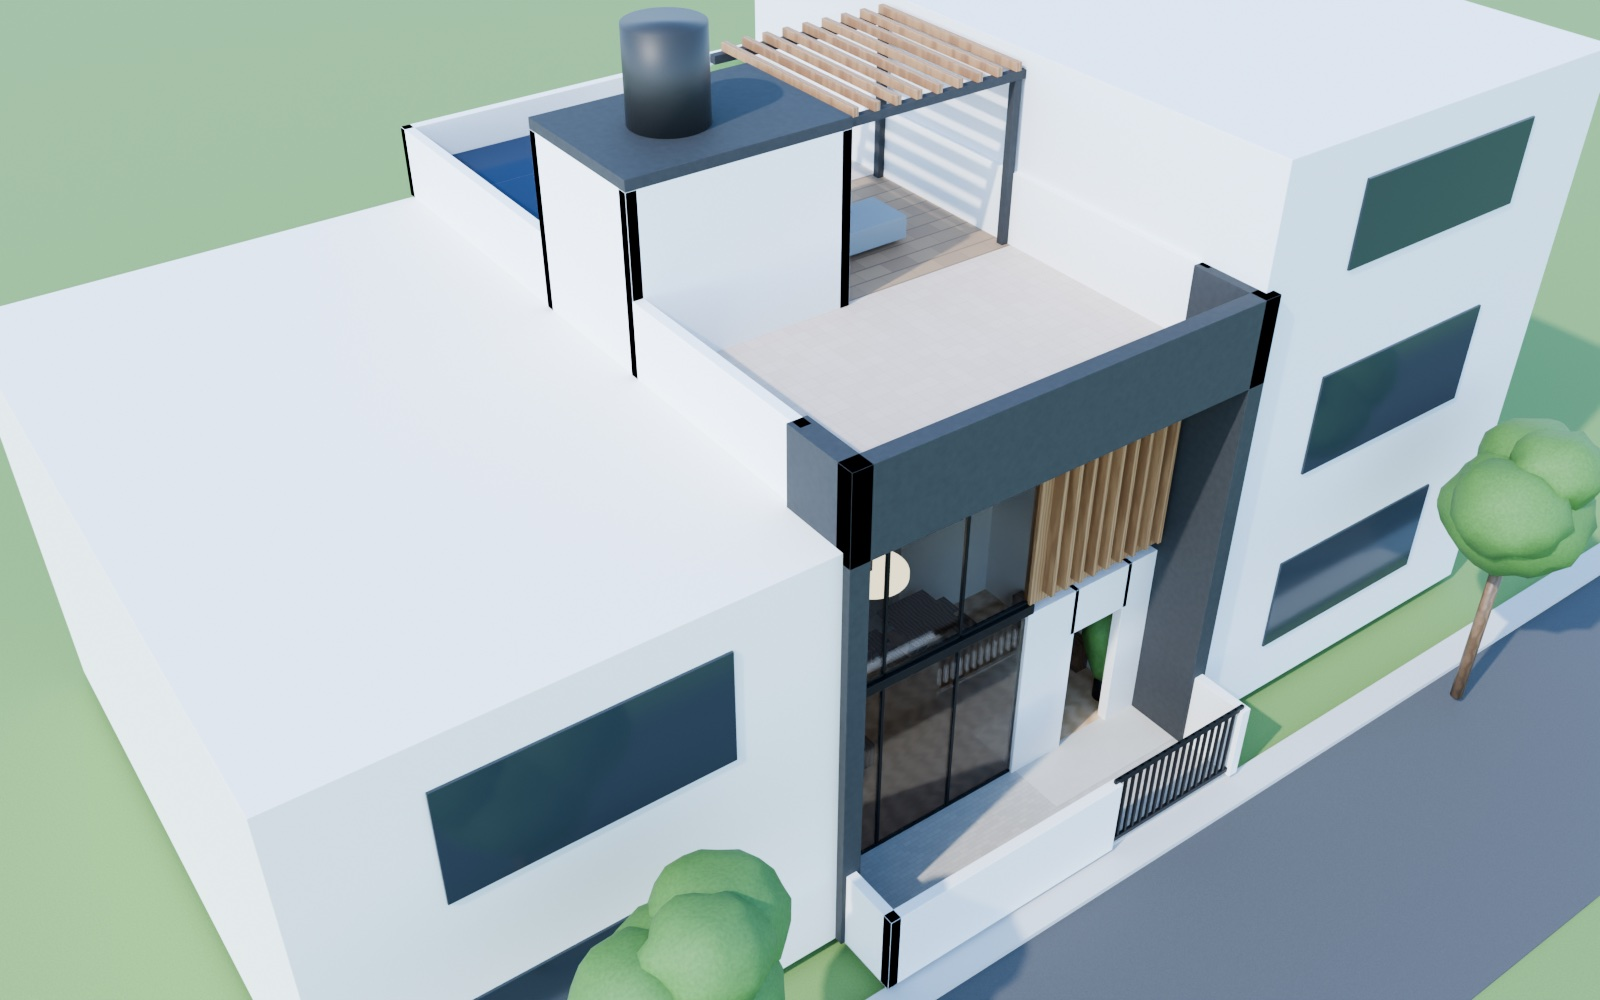
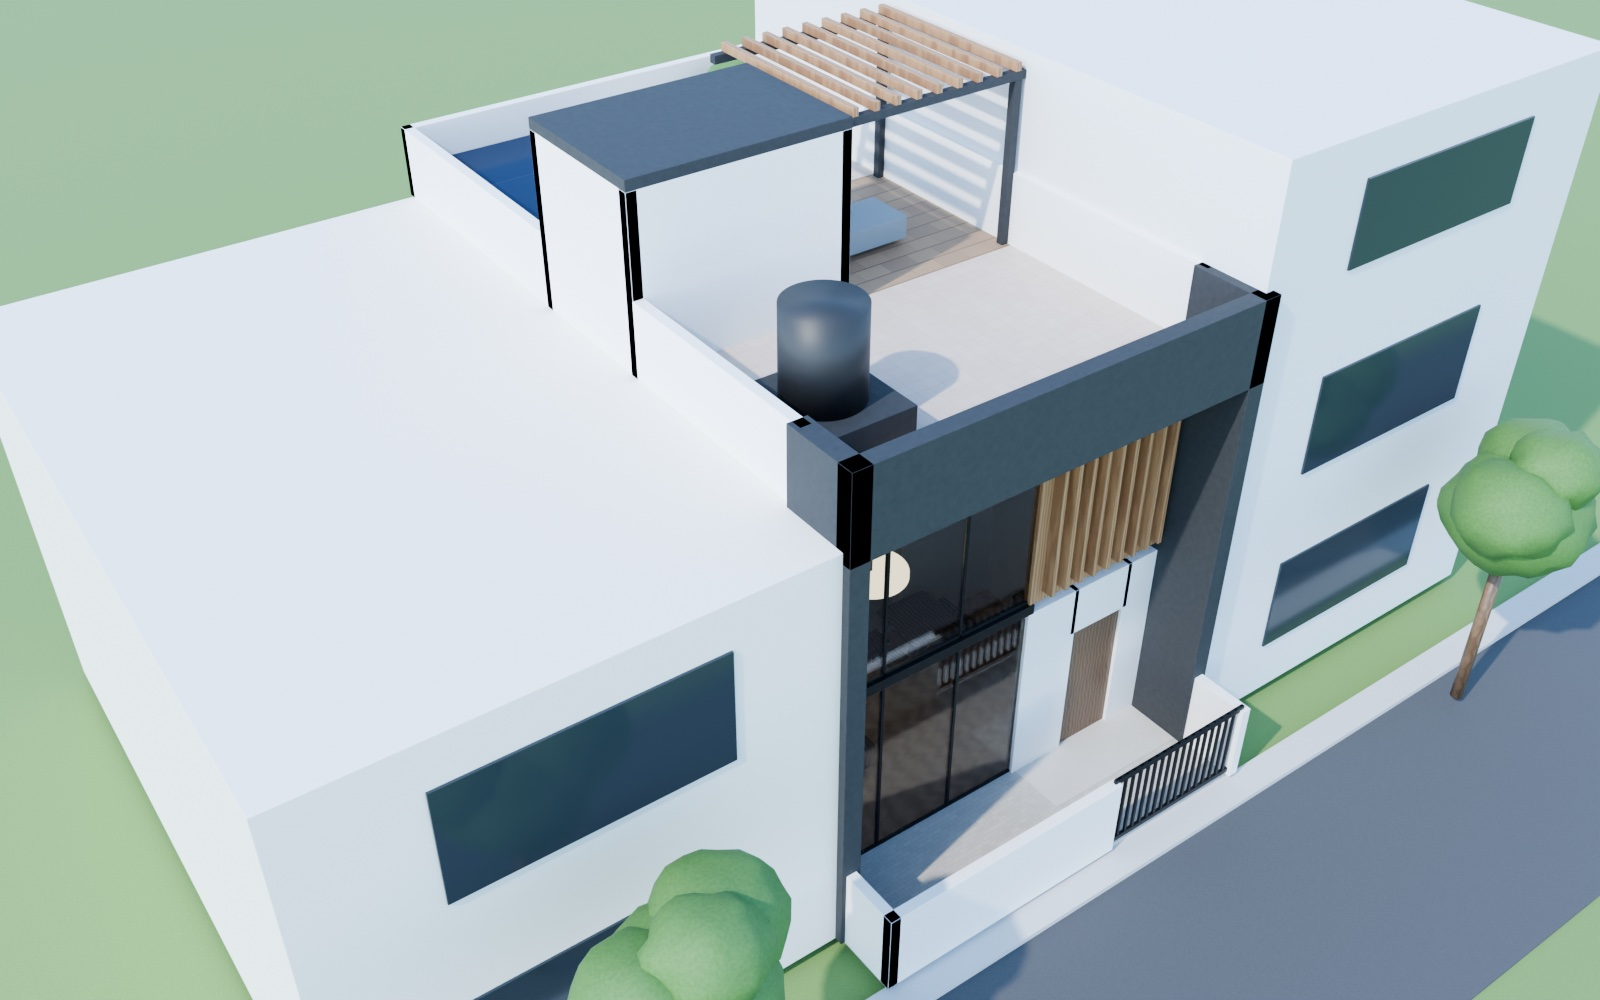
Apply easy vastu fixes: east-facing hob, bed heads east, SW water tank, NE sump / NW septic
Updates the 3D model, Blender scene, aerial render and plan sheet,
and rewrites the vastu checklist (7 of 11 met, 4 partial).

diff --git a/index.html b/index.html
@@ -135,9 +135,9 @@ const LEVELS = [
       { n: 'Passage', r: [10,17,4,10], f: 'tile', note: 'Links living, stair, kitchen, wash and Bedroom 1.' },
       { n: 'Wash', r: [14,17,6,4], f: 'tile', note: 'Wash basin counter and store niche.' },
       { n: 'Bath 1', r: [14,21,6,6], f: 'bath', note: 'Attached to Bedroom 1. No outside wall, so it needs an exhaust ducted to the rear.' },
-      { n: 'Kitchen', r: [0,24,10,14], f: 'tile', note: 'North-west kitchen. L-counter under the north window, back door to the utility strip.' },
-      { n: 'Bedroom 1', r: [10,27,10,11], f: 'wood2', note: 'Ground-floor bedroom with attached Bath 1. Good for parents or guests.' },
-      { n: 'Rear setback', r: [0,38,20,2], f: 'paving', note: '2′ utility strip for drain pipes and a back door.' }
+      { n: 'Kitchen', r: [0,24,10,14], f: 'tile', note: 'North-west kitchen. The hob is on the east counter so you cook facing east. Sink under the north window, tall storage on the west wall, back door to the utility strip.' },
+      { n: 'Bedroom 1', r: [10,27,10,11], f: 'wood2', note: 'Ground-floor bedroom with attached Bath 1. The bed head is to the east, as vastu advises. Good for parents or guests.' },
+      { n: 'Rear setback', r: [0,38,20,2], f: 'paving', note: '2′ utility strip with the back door. Septic tank chamber in the north-west, underground water sump in the north-east.' }
     ],
     encl: [[0,6,20,11],[0,17,10,7],[10,17,4,10],[14,17,6,4],[14,21,6,6],[0,24,10,14],[10,27,10,11]],
     open: [[10,17,14,17],[10,17,10,20.5],[14,17,14,21],[10,24,10,27]],
@@ -153,7 +153,7 @@ const LEVELS = [
       { n: 'Stair', r: [0,17,10,7], f: 'stone', noTile: true, note: 'Stair continues up to the terrace stair room.' },
       { n: 'Passage', r: [10,21,4,6], f: 'tile', note: 'Links the gallery, Bedroom 2, Bath 2 and the study.' },
       { n: 'Bath 2', r: [14,21,6,6], f: 'bath', note: 'Attached to Bedroom 2. Sits directly above Bath 1, so the plumbing runs straight down.' },
-      { n: 'Bedroom 2', r: [10,27,10,11], f: 'wood2', note: 'Upstairs bedroom above Bedroom 1, with attached Bath 2 and a wide north window.' },
+      { n: 'Bedroom 2', r: [10,27,10,11], f: 'wood2', note: 'Upstairs bedroom above Bedroom 1, with attached Bath 2 and a wide north window. Bed head to the east.' },
       { n: 'Study / flex', r: [0,24,10,14], f: 'wood', note: '10′ × 14′ room over the kitchen with a north window. Can become a third bedroom later.' }
     ],
     encl: [[0,17,10,7],[10,21,4,6],[14,21,6,6],[0,24,10,14],[10,27,10,11]],
@@ -168,8 +168,8 @@ const LEVELS = [
   },
   { name: 'Terrace', wallH: 8,
     rooms: [
-      { n: 'Roof terrace', r: [0,3,20,14], f: 'terrace', note: 'Terrace on the roof of the double-height living room, framed by the front concrete frame.' },
-      { n: 'Stair room', r: [0,17,10,7], f: 'stone', noTile: true, note: 'Stair headroom. The overhead water tank sits on its roof, in the south-west half.' },
+      { n: 'Roof terrace', r: [0,3,20,14], f: 'terrace', note: 'Terrace on the roof of the double-height living room. The overhead water tank sits on a plinth in the south-west corner.' },
+      { n: 'Stair room', r: [0,17,10,7], f: 'stone', noTile: true, note: 'Stair headroom with a door to the pergola deck.' },
       { n: 'Pergola deck', r: [10,17,10,10], f: 'deck', note: 'Shaded sit-out under a slatted pergola, next to the stair-room door.' },
       { n: 'Solar roof', r: [0,24,10,14], f: 'terrace', note: 'Roof of the study. Room for about 3 kW of solar panels, tilted 13° to the south.' },
       { n: 'Rear terrace', r: [10,27,10,11], f: 'terrace', note: 'Roof of Bedroom 2. Space for drying and a terrace garden.' }
@@ -379,11 +379,12 @@ F(0, 5.9, 9.4, 6.1, 9.6, 12, 19.5, M.frame);
 // tall indoor plant by the glass
 F(0, 10.4, 6.6, 11.4, 7.6, 0, 1.4, M.frame); F(0, 10.1, 6.3, 11.7, 7.9, 1.4, 5.5, M.green);
 // kitchen
-F(0, 0.25, 27, 2.25, 37.75, 0, 3, M.white); F(0, 2.25, 35.75, 9.75, 37.75, 0, 3, M.white);
+F(0, 0.25, 27, 2.25, 37.75, 0, 7, M.white); F(0, 2.25, 35.75, 7.75, 37.75, 0, 3, M.white);
+F(0, 7.75, 28, 9.75, 37.75, 0, 3, M.white); F(0, 8.1, 30.5, 9.4, 33.5, 3, 3.08, M.black); // hob on the east counter: cook faces east
 F(0, 0.3, 24.3, 2.6, 26.6, 0, 6, M.metal);
 // bedroom 1 + bath 1 + wash
-F(0, 13, 31, 18, 37.5, 0, 1.8, M.white); F(0, 13, 37.4, 18, 37.75, 0, 3.6, M.woodDark);
-F(0, 10.3, 29, 12.3, 35.5, 0, 7, M.wood);
+F(0, 13.25, 31, 19.75, 36, 0, 1.8, M.white); F(0, 19.4, 31, 19.75, 36, 0, 3.6, M.woodDark); // head to the east
+F(0, 17.7, 27.25, 19.75, 29.25, 0, 7, M.wood);
 F(0, 18.5, 24.5, 19.75, 26.2, 0, 1.4, M.white);
 F(0, 18.2, 17.3, 19.75, 20.5, 0, 2.8, M.white);
 // first: gallery lounge + pooja unit
@@ -391,8 +392,8 @@ F(1, 17.5, 14, 19.75, 19, 0, 1.5, M.fabric); F(1, 19.1, 14, 19.75, 19, 1.5, 2.9,
 F(1, 13.5, 15, 15.8, 17.8, 0, 1.3, M.wood);
 F(1, 19.2, 19.4, 19.75, 20.9, 0, 4, M.woodDark);
 // bedroom 2 + bath 2
-F(1, 13, 31, 18, 37.5, 0, 1.8, M.white); F(1, 13, 37.4, 18, 37.75, 0, 3.6, M.clad);
-F(1, 10.3, 29, 12.3, 35.5, 0, 7, M.wood);
+F(1, 13.25, 31, 19.75, 36, 0, 1.8, M.white); F(1, 19.4, 31, 19.75, 36, 0, 3.6, M.clad); // head to the east
+F(1, 17.7, 27.25, 19.75, 29.25, 0, 7, M.wood);
 F(1, 18.5, 24.5, 19.75, 26.2, 0, 1.4, M.white);
 // study
 F(1, 0.3, 30, 2.5, 35, 0, 2.5, M.wood); F(1, 6, 34, 9.7, 37.7, 0, 1.5, M.fabric); F(1, 0.25, 24.5, 1.1, 29, 0, 7, M.woodDark);
@@ -421,8 +422,11 @@ for (const cy of [27.5, 31.8, 36.1]) {
 }
 {
   const tank = new THREE.Mesh(new THREE.CylinderGeometry(1.7, 1.7, 4, 28), M.tank);
-  tank.position.copy(V(4, 20.5, 2 * FLOOR + 8.5 + 2)); tank.castShadow = true;
+  tank.position.copy(V(3.5, 9.5, 2 * FLOOR + 1.5 + 2)); tank.castShadow = true;   // south-west corner of the roof
   levelObjs[2].group.add(tank);
+  box(1, 7, 6, 12, 2 * FLOOR, 2 * FLOOR + 1.5, M.frame, levelObjs[2].group);
+  box(0.6, 38.3, 4, 39.7, 0, 0.06, M.frame, levelObjs[0].group);    // septic chamber cover, north-west
+  box(16, 38.3, 19.4, 39.7, 0, 0.06, M.frame, levelObjs[0].group);  // sump cover, north-east
 }
 
 // ---------- site ----------

diff --git a/plans.html b/plans.html
@@ -94,7 +94,7 @@ ul.check .mid{color:var(--warn);font-weight:700}
   <figure><figcaption><strong>First floor</strong><small>460 sq ft enclosed</small></figcaption><svg id="p-first"></svg>
     <p>A gallery looks down into the living room over a glass rail. Bedroom 2 and Bath 2 sit directly above Bedroom 1 and Bath 1.</p></figure>
   <figure><figcaption><strong>Terrace</strong><small>70 sq ft stair room</small></figcaption><svg id="p-terrace"></svg>
-    <p>Flat roof with a front concrete frame, a pergola deck, solar panels on the study roof, and the water tank on the stair room.</p></figure>
+    <p>Flat roof with a front concrete frame, a pergola deck, solar panels on the study roof, and the water tank in the south-west corner.</p></figure>
 </div>
 <div class="legend">
   <span><i style="background:var(--room)"></i>Enclosed room</span>
@@ -111,14 +111,19 @@ ul.check .mid{color:var(--warn);font-weight:700}
   </section>
   <section>
     <h2>Vastu check for a south-facing plot</h2>
+    <p style="margin:-4px 0 12px;color:var(--muted);font-size:14px">7 of 11 rules met, 4 partly. The only one fully missed is the south-west master bedroom, which is the trade-off for the double-height living room.</p>
     <ul class="check">
       <li><span class="ok">✓</span><span><b>Main door</b> on the south wall, east of centre (pada 3–4). The south-west half is avoided.</span></li>
-      <li><span class="ok">✓</span><span><b>Kitchen</b> in the north-west. Cook facing east along the east counter.</span></li>
+      <li><span class="ok">✓</span><span><b>Kitchen</b> in the north-west, with the hob on the east counter so you cook facing east.</span></li>
       <li><span class="ok">✓</span><span><b>Staircase</b> on the west side. It climbs clockwise: west, turn north, then east.</span></li>
-      <li><span class="ok">✓</span><span><b>Water tank</b> over the stair room, in the heavier south-west half.</span></li>
-      <li><span class="ok">✓</span><span><b>Brahmasthan</b> (centre) stays open, with the passage and the double-height space.</span></li>
-      <li><span class="mid">~</span><span><b>Both bedrooms</b> are in the north-east, stacked. The double-height living takes the south-west, where vastu would put the master bedroom. This is the trade-off for the tall living room. Keep beds with the head to the south.</span></li>
-      <li><span class="mid">~</span><span><b>Pooja</b> is a wall unit on the gallery's east wall rather than a separate room.</span></li>
+      <li><span class="ok">✓</span><span><b>Overhead water tank</b> on a plinth in the south-west corner of the roof.</span></li>
+      <li><span class="ok">✓</span><span><b>Underground sump</b> in the north-east corner. <b>Septic tank</b> in the north-west.</span></li>
+      <li><span class="ok">✓</span><span><b>Beds</b> in both bedrooms placed with the head to the east.</span></li>
+      <li><span class="ok">✓</span><span><b>Brahmasthan</b> (centre) left open, with the passage and the double-height space.</span></li>
+      <li><span class="mid">~</span><span><b>Both bedrooms</b> are in the north-east, stacked. The double-height living room takes the south-west, where vastu would put the master bedroom. This is the trade-off for the tall living room.</span></li>
+      <li><span class="mid">~</span><span><b>Baths</b> are east-centre, stacked. It's acceptable, but not the west or north-west that vastu prefers.</span></li>
+      <li><span class="mid">~</span><span><b>Pooja</b> is a wall unit on the gallery's east wall, not a room in the north-east.</span></li>
+      <li><span class="mid">~</span><span><b>South glass wall.</b> Vastu prefers fewer openings on the south. The concrete frame and wood fins reduce the heat.</span></li>
     </ul>
   </section>
 </div>
@@ -161,7 +166,7 @@ const PLANS = {
       {w:"h",x:15,y:27,len:2.5,al:1,in:-1},
       {w:"h",x:1,y:38,len:2.5,al:1,in:-1}
     ],
-    extra: [{t:"MAIN DOOR",x:16.25,y:4.5}]
+    extra: [{t:"MAIN DOOR",x:16.25,y:4.5},{t:"HOB · FACE EAST",x:5,y:29.5},{t:"BED HEAD → EAST",x:15,y:30.2},{t:"SEPTIC (NW)",x:3,y:38.6},{t:"SUMP (NE)",x:17,y:38.6}]
   },
   first: {
     stairLabel: "UP",
@@ -184,7 +189,7 @@ const PLANS = {
       {w:"h",x:15,y:27,len:2.5,al:1,in:-1},
       {w:"v",x:10,y:24.3,len:2.5,al:1,in:-1}
     ],
-    extra: [{t:"GLASS RAIL",x:15,y:13.6},{t:"WOOD-CLAD PANEL",x:16,y:6.8}]
+    extra: [{t:"GLASS RAIL",x:15,y:13.6},{t:"WOOD-CLAD PANEL",x:16,y:6.8},{t:"BED HEAD → EAST",x:15,y:30.2}]
   },
   terrace: {
     stairLabel: "",
@@ -198,7 +203,7 @@ const PLANS = {
     ],
     openings: [], windows: [],
     doors: [{w:"v",x:10,y:20.7,len:3,al:1,in:1}],
-    extra: [{t:"WATER TANK ABOVE",x:5,y:25.2},{t:"CONCRETE FRAME",x:10,y:3.6}]
+    extra: [{t:"WATER TANK (SW)",x:4,y:7.2},{t:"CONCRETE FRAME",x:10,y:3.6}]
   }
 };
 

diff --git a/blender/render_house.py b/blender/render_house.py
@@ -445,18 +445,20 @@ F(0, 5.95, 9.45, 6.05, 9.55, 12.2, 19.5, 'black', 'pendant rod')
 cylinder(1.6, 0.25, P(6, 9.5, 12.1), M['lamp'], 48, 'pendant')
 cylinder(0.5, 1.4, P(18.9, 7.1, 0.7), M['black'], 24, 'planter')
 blob(1.3, P(18.9, 7.1, 3.6), M['leaf'], 1.7, 'plant')
-F(0, 0.25, 27, 2.25, 37.75, 0, 3, 'white', 'counter'); F(0, 2.25, 35.75, 9.75, 37.75, 0, 3, 'white', 'counter')
-F(0, 0.25, 27, 2.25, 37.75, 3, 3.1, 'stone', 'counter top'); F(0, 2.25, 35.75, 9.75, 37.75, 3, 3.1, 'stone', 'counter top')
+F(0, 0.25, 27, 2.25, 37.75, 0, 7, 'white', 'tall storage'); F(0, 2.25, 35.75, 7.75, 37.75, 0, 3, 'white', 'counter')
+F(0, 2.25, 35.75, 7.75, 37.75, 3, 3.1, 'stone', 'counter top')
+F(0, 7.75, 28, 9.75, 37.75, 0, 3, 'white', 'counter'); F(0, 7.75, 28, 9.75, 37.75, 3, 3.1, 'stone', 'counter top')
+F(0, 8.1, 30.5, 9.4, 33.5, 3.1, 3.16, 'black', 'hob')  # cook faces east
 F(0, 0.3, 24.3, 2.6, 26.6, 0, 6, 'metal', 'fridge')
-F(0, 13, 31, 18, 37.5, 0, 1.8, 'linen', 'bed'); F(0, 13, 37.4, 18, 37.75, 0, 3.6, 'woodDark', 'headboard')
-F(0, 10.3, 29, 12.3, 35.5, 0, 7, 'woodDark', 'wardrobe')
+F(0, 13.25, 31, 19.75, 36, 0, 1.8, 'linen', 'bed'); F(0, 19.4, 31, 19.75, 36, 0, 3.6, 'woodDark', 'headboard')  # head east
+F(0, 17.7, 27.25, 19.75, 29.25, 0, 7, 'woodDark', 'wardrobe')
 F(0, 18.5, 24.5, 19.75, 26.2, 0, 1.4, 'white', 'wc'); F(0, 18.2, 17.3, 19.75, 20.5, 0, 2.8, 'white', 'vanity')
 # first floor furniture
 F(1, 17.5, 14, 19.75, 19, 0.3, 1.5, 'fabric', 'sofa'); F(1, 19.1, 14, 19.75, 19, 1.5, 2.9, 'fabric', 'sofa back')
 F(1, 13.5, 15, 15.8, 17.8, 0, 1.3, 'woodDark', 'table')
 F(1, 19.2, 19.4, 19.75, 20.9, 0, 4, 'woodDark', 'pooja unit')
-F(1, 13, 31, 18, 37.5, 0, 1.8, 'linen', 'bed'); F(1, 13, 37.4, 18, 37.75, 0, 3.6, 'clad', 'headboard')
-F(1, 10.3, 29, 12.3, 35.5, 0, 7, 'woodDark', 'wardrobe')
+F(1, 13.25, 31, 19.75, 36, 0, 1.8, 'linen', 'bed'); F(1, 19.4, 31, 19.75, 36, 0, 3.6, 'clad', 'headboard')  # head east
+F(1, 17.7, 27.25, 19.75, 29.25, 0, 7, 'woodDark', 'wardrobe')
 F(1, 18.5, 24.5, 19.75, 26.2, 0, 1.4, 'white', 'wc')
 F(1, 0.3, 30, 2.5, 35, 0, 2.5, 'woodDark', 'desk'); F(1, 6, 34, 9.7, 37.7, 0, 1.5, 'fabric', 'daybed')
 F(1, 0.25, 24.5, 1.1, 29, 0, 7, 'woodDark', 'bookshelf')
@@ -472,7 +474,10 @@ F(2, 15, 34, 19.5, 37.5, 0, 1.6, 'woodDark', 'planter box')
 blob(1.6, P(17.2, 35.7, 2 * FLOOR + 2.6), M['leaf'], 0.8, 'terrace plants')
 for cy in (27.5, 31.8, 36.1):
     cbox(8.4, 3.3, 0.15, P(5, cy, 2 * FLOOR + 1.3), M['solar'], (math.radians(13), 0, 0), 'solar panel')
-cylinder(1.7, 4, P(4, 20.5, 2 * FLOOR + 8.5 + 2), M['tank'], 40, 'water tank')
+cylinder(1.7, 4, P(3.5, 9.5, 2 * FLOOR + 1.5 + 2), M['tank'], 40, 'water tank')  # south-west corner of the roof
+box(1, 7, 6, 12, 2 * FLOOR, 2 * FLOOR + 1.5, M['frame'], 'tank plinth')
+box(0.6, 38.3, 4, 39.7, 0, 0.06, M['frame'], 'septic cover (NW)')
+box(16, 38.3, 19.4, 39.7, 0, 0.06, M['frame'], 'sump cover (NE)')
 
 # site
 bpy.ops.mesh.primitive_plane_add(size=160, location=(0, 0, -0.55 * FT))
